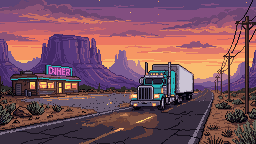
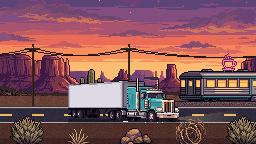
The title as a side-view parallax (Jeff, 2026-11-01: "the road looks like the truck is driving but nothing in the background is moving")
tools/title-parallax.py composes the title loop from painted layers (assets/title/parallax: the sky and mesas, the
diner, a sheet of desert plants, the truck and its 16-frame roll). The truck holds its place while the world streams
past at speeds set by distance: the sky and the mesas stay put, the shoulder (poles, wires, cacti, the diner once a
loop) and the road move 4 px a frame, the scrub in front 6. 96 frames of 256 × 144 at 24 fps, every layer repeating
a whole number of times, so the last frame leads into the first and TITLE_LOOP's crossfade is 0 (App.tsx reads it
from there now). title.ts inlines one poster frame, the loop's first, instead of the old loop's 16: the page is
557 KB lighter, and nothing moves before the loop decodes in a way the loop doesn't. title.png stays as the style
anchor of the painterly assets; it no longer ships. asset-pass.sh titleparallax: the layers' prompts and seeds.

diff --git a/apps/web/src/title.ts b/apps/web/src/title.ts
@@ -1,31 +1,17 @@
-import f01 from "../assets/title/loop/frame-01.png";
-import f02 from "../assets/title/loop/frame-02.png";
-import f03 from "../assets/title/loop/frame-03.png";
-import f04 from "../assets/title/loop/frame-04.png";
-import f05 from "../assets/title/loop/frame-05.png";
-import f06 from "../assets/title/loop/frame-06.png";
-import f07 from "../assets/title/loop/frame-07.png";
-import f08 from "../assets/title/loop/frame-08.png";
-import f09 from "../assets/title/loop/frame-09.png";
-import f10 from "../assets/title/loop/frame-10.png";
-import f11 from "../assets/title/loop/frame-11.png";
-import f12 from "../assets/title/loop/frame-12.png";
-import f13 from "../assets/title/loop/frame-13.png";
-import f14 from "../assets/title/loop/frame-14.png";
-import f15 from "../assets/title/loop/frame-15.png";
-import f16 from "../assets/title/loop/frame-16.png";
+import poster from "../assets/title/loop/frame-01.png";
 
 /**
- * The animated title scene: the Pro painterly image (apps/web/assets/title/title.png) and its
- * 16-frame PixMiniMax loop, 256×144, shown at a whole-number scale with the logo over the sky.
- * Frame 0 of the loop is the still itself, so the loop plays frames 1–16 and repeats.
+ * The title scene's poster, inside the page: the first frame of the parallax loop (tools/title-parallax.py),
+ * 256×144, shown at a whole-number scale with the logo over the sky until the loop next to the page
+ * (mapart.ts titleLoop) has decoded, and for good when motion is reduced. One frame, so it never moves
+ * in a way the loop doesn't.
  */
 export const TITLE_FRAME_W = 256;
 export const TITLE_FRAME_H = 144;
-/** Milliseconds per frame: 10 fps reads as a slow roll, not a flicker. */
+/** Milliseconds per inline frame. */
 export const TITLE_FRAME_MS = 100;
 
-const SRC = [f01, f02, f03, f04, f05, f06, f07, f08, f09, f10, f11, f12, f13, f14, f15, f16];
+const SRC = [poster];
 let imgs: HTMLImageElement[] | null = null;
 let decoded = 0;
 

diff --git a/apps/web/src/ui/App.tsx b/apps/web/src/ui/App.tsx
@@ -65,15 +65,14 @@ function TitleScene(): JSX.Element {
           ctx.imageSmoothingEnabled = false;
           const sheet = reduced ? null : titleLoop();
           if (sheet) {
-            // The long loop: 40 frames at 12 fps from the sheet next to the page, the last six
-            // frames crossfading into the first six so the wrap never jumps.
-            const { frames, cols, fps } = TITLE_LOOP;
+            // The long loop from the sheet next to the page (TITLE_LOOP). A loop that doesn't close
+            // crossfades its last `fade` frames into its first; the parallax loop closes, so its fade is 0.
+            const { frames, cols, fps, fade } = TITLE_LOOP;
             const i = Math.floor((t * fps) / 1000) % frames;
             const cell = (n: number) => [(n % cols) * TITLE_FRAME_W, Math.floor(n / cols) * TITLE_FRAME_H] as const;
             const [sx, sy] = cell(i);
             ctx.drawImage(sheet, sx, sy, TITLE_FRAME_W, TITLE_FRAME_H, 0, 0, cv.width, cv.height);
-            const fade = 6;
-            if (i >= frames - fade) {
+            if (fade > 0 && i >= frames - fade) {
               const [fx, fy] = cell(i - (frames - fade));
               ctx.globalAlpha = (i - (frames - fade) + 1) / (fade + 1);
               ctx.drawImage(sheet, fx, fy, TITLE_FRAME_W, TITLE_FRAME_H, 0, 0, cv.width, cv.height);

diff --git a/apps/web/src/mapart.ts b/apps/web/src/mapart.ts
@@ -200,7 +200,7 @@ export function townKindAt(lon: number, lat: number, nearWater: boolean): TownKi
 }
 
 let titlePic: Pic | null = null;
-/** The title's long loop (assets/title/title.loop.png, 40 frames of 256 × 144 in 8 columns) once decoded. */
+/** The title's long loop (assets/title/title.loop.png, 96 frames of 256 × 144 in 12 columns) once decoded. */
 export function titleLoop(): HTMLImageElement | null {
   if (!titlePic) {
     if (!hasAsset("title/title.loop.png")) return null;
@@ -209,7 +209,8 @@ export function titleLoop(): HTMLImageElement | null {
   }
   return titlePic.ready ? titlePic.img : null;
 }
-export const TITLE_LOOP = { frames: 40, cols: 8, fps: 12 };
+/** A side-view parallax (tools/title-parallax.py) whose last frame leads into its first, so nothing crossfades. */
+export const TITLE_LOOP = { frames: 96, cols: 12, fps: 24, fade: 0 };
 
 let loadingPic: Pic | null = null;
 /** The loading screen's rig strip (16 frames of 256 × 72) once it has decoded. */

diff --git a/apps/web/tools/title-parallax.py b/apps/web/tools/title-parallax.py
@@ -1,0 +1,205 @@
+#!/usr/bin/env python3
+"""The title loop as a side-view parallax (Jeff, 2026-11-01: in the old loop the road moved and nothing beside it did).
+
+The truck holds its place with its wheels turning while the world streams past at speeds set by distance: the sky
+and the mesas stay put; the shoulder (its poles, wires, cacti and the diner) and the road move 4 px a frame; the
+scrub in front of the road 6. Every moving layer repeats a whole number of times in the 96 frames, so the frame
+after the last is the first and the loop needs no crossfade (mapart.ts TITLE_LOOP.fade 0).
+
+Layers (apps/web/assets/title/parallax, painted by asset-pass.sh titleparallax): back.png, the sky, the mesas and
+the far desert; diner.png; scrub.png, a sheet of plants cut apart here; rig.loop.png, the truck's 16-frame roll.
+
+  title-parallax.py [--frames <dir>]
+      → assets/title/title.loop.png (+ .json), 96 frames of 256 × 144 in 12 columns, played at 24 fps, and the
+        poster assets/title/loop/frame-01.png (the first frame); --frames also writes frame-00 … for previews.
+"""
+import importlib.util
+import json
+import os
+import sys
+
+import numpy as np
+
+HERE = os.path.dirname(os.path.abspath(__file__))
+spec = importlib.util.spec_from_file_location("pm", os.path.join(HERE, "paint-map.py"))
+pm = importlib.util.module_from_spec(spec)
+spec.loader.exec_module(pm)  # type: ignore[union-attr]
+
+ASSETS = os.path.join(HERE, "..", "assets", "title")
+LAYERS = os.path.join(ASSETS, "parallax")
+W, H, N, COLS = 256, 144, 96, 12
+ROAD_V, FORE_V = 4, 6  # px a frame: the shoulder and the road, and the scrub in front of the road
+NEAR_W = ROAD_V * N  # 384: the shoulder and the road come round once a loop
+FORE_W = FORE_V * N // 2  # 288: the foreground comes round twice
+
+# Rows: the shoulder behind the road, the road's far edge line, centre dashes and near edge line, the foreground.
+SHOULDER, ROAD, CENTRE, ROAD_END = 96, 106, 114, 124
+POLE_TOP, ARM = 44, 48
+TRUCK_X, TRUCK_FOOT = 60, 121  # the rig sprite's left edge and the row its tyres stand on
+
+DIRT, PEBBLE = (104, 64, 54), (72, 46, 40)
+ASPHALT, SHEEN = (46, 42, 60), (64, 54, 74)
+LINE, DASH = (196, 176, 150), (230, 186, 92)
+SAND, SAND_DEEP = (80, 47, 41), (62, 37, 35)
+POLE, POLE_DARK, INSULATOR, WIRE = (60, 40, 34), (40, 27, 26), (220, 210, 190), (34, 24, 28)
+
+
+def load(name: str) -> np.ndarray:
+    return pm.read_png(os.path.join(LAYERS, name))
+
+
+def crop(img: np.ndarray) -> np.ndarray:
+    ys, xs = np.nonzero(img[..., 3] > 0)
+    return img[ys.min() : ys.max() + 1, xs.min() : xs.max() + 1]
+
+
+def sprites(sheet: np.ndarray) -> list:
+    """The sheet's plants, left to right, split at the empty columns between them."""
+    filled = (sheet[..., 3] > 0).any(axis=0)
+    out, x = [], 0
+    while x < len(filled):
+        if filled[x]:
+            start = x
+            while x < len(filled) and filled[x]:
+                x += 1
+            out.append(crop(sheet[:, start:x]))
+        x += 1
+    return out
+
+
+def over(dst: np.ndarray, src: np.ndarray, x: int, y: int, alpha: float = 1.0) -> None:
+    """Composites src onto dst with its top-left at (x, y), clipped to dst."""
+    h, w = src.shape[:2]
+    x0, y0, x1, y1 = max(0, x), max(0, y), min(dst.shape[1], x + w), min(dst.shape[0], y + h)
+    if x0 >= x1 or y0 >= y1:
+        return
+    s = src[y0 - y : y1 - y, x0 - x : x1 - x].astype(np.float32)
+    d = dst[y0:y1, x0:x1].astype(np.float32)
+    a = s[..., 3:4] / 255 * alpha
+    d[..., :3] = s[..., :3] * a + d[..., :3] * (1 - a)
+    d[..., 3:4] = np.maximum(d[..., 3:4], a * 255)
+    dst[y0:y1, x0:x1] = d.round().astype(np.uint8)
+
+
+def wrapped(dst: np.ndarray, src: np.ndarray, x: int, y: int, period: int) -> None:
+    """Draws src at x and at every whole period either side, so a strip's edges join."""
+    for k in (-1, 0, 1):
+        over(dst, src, x + k * period, y)
+
+
+def textured(w: int, h: int, base, spread: int, seed: int) -> np.ndarray:
+    """A band of base colour with fixed noise, w wide so that it tiles at w."""
+    rng = np.random.default_rng(seed)
+    band = np.zeros((h, w, 4), np.float32)
+    band[..., :3] = base
+    band[..., :3] += rng.integers(-spread, spread + 1, (h, w, 1))
+    band[..., 3] = 255
+    return band.clip(0, 255).astype(np.uint8)
+
+
+def paint(strip: np.ndarray, x: int, y: int, color, period: int) -> None:
+    strip[y, x % period, :3] = color
+    strip[y, x % period, 3] = 255
+
+
+def near_layer(diner: np.ndarray, cacti: list) -> np.ndarray:
+    """The shoulder and the road: poles and wires, cacti, the diner once a loop, asphalt with its lines."""
+    s = np.zeros((H, NEAR_W, 4), np.uint8)
+    s[SHOULDER:ROAD] = textured(NEAR_W, ROAD - SHOULDER, DIRT, 9, 1)
+    rng = np.random.default_rng(2)
+    for _ in range(40):
+        paint(s, int(rng.integers(0, NEAR_W)), int(rng.integers(SHOULDER + 1, ROAD)), PEBBLE, NEAR_W)
+    road = textured(NEAR_W, ROAD_END - ROAD, ASPHALT, 5, 3)
+    road[0:3, :, :3] = SHEEN
+    road[1, :, :3] = LINE
+    road[ROAD_END - ROAD - 2, :, :3] = LINE
+    for x in range(0, NEAR_W, 32):
+        road[CENTRE - ROAD : CENTRE - ROAD + 2, x : x + 12, :3] = DASH
+    s[ROAD:ROAD_END] = road
+    poles = [32, 128, 320]  # the diner stands where a fourth would
+    for i, px in enumerate(poles):
+        nxt = poles[(i + 1) % len(poles)] + (NEAR_W if i + 1 == len(poles) else 0)
+        span = nxt - px
+        sag = 4 + span // 48
+        for end in (-6, 6):
+            for k in range(span + 1):
+                t = k / span
+                paint(s, px + end + k, ARM + 1 + int(round(4 * sag * t * (1 - t))), WIRE, NEAR_W)
+    for px in poles:
+        for y in range(POLE_TOP, ROAD):
+            paint(s, px, y, POLE, NEAR_W)
+            paint(s, px + 1, y, POLE_DARK, NEAR_W)
+        for dx in range(-7, 8):
+            paint(s, px + dx, ARM, POLE, NEAR_W)
+            paint(s, px + dx, ARM + 1, POLE_DARK, NEAR_W)
+        for dx in (-6, 0, 6):
+            paint(s, px + dx, ARM - 1, INSULATOR, NEAR_W)
+    wrapped(s, diner, 168, ROAD - 1 - diner.shape[0], NEAR_W)
+    for cx, cactus in zip((80, 290), cacti):
+        wrapped(s, cactus, cx, ROAD - 2 - cactus.shape[0], NEAR_W)
+    return s
+
+
+def fore_layer(plants: list) -> np.ndarray:
+    """The ground in front of the road with low scrub, cropped by the bottom of the frame."""
+    f = np.zeros((H, FORE_W, 4), np.uint8)
+    f[ROAD_END:H] = textured(FORE_W, H - ROAD_END, SAND, 7, 4)
+    f[H - 6 : H] = textured(FORE_W, 6, SAND_DEEP, 6, 5)
+    for x, i in ((10, 0), (66, 1), (118, 2), (176, 3), (226, 0), (262, 1)):
+        p = plants[i]
+        wrapped(f, p, x, H + 5 - p.shape[0], FORE_W)
+    return f
+
+
+def glow(frame: np.ndarray) -> None:
+    """The headlights' wash on the road ahead of the truck and the truck's shadow under it."""
+    shade = np.zeros((4, 112, 4), np.uint8)
+    shade[..., 3] = 90
+    over(frame, shade, TRUCK_X + 8, TRUCK_FOOT - 2)
+    beam = np.zeros((ROAD_END - ROAD - 3, 64, 4), np.uint8)
+    for x in range(64):
+        half = 1 + x // 8
+        mid = (TRUCK_FOOT - 4) - ROAD
+        beam[max(0, mid - half) : mid + half + 1, x, :3] = (255, 226, 150)
+        beam[max(0, mid - half) : mid + half + 1, x, 3] = int(70 * (1 - x / 64))
+    over(frame, beam, TRUCK_X + 118, ROAD + 1)
+
+
+def main() -> None:
+    back = load("back.png")
+    diner = crop(load("diner.png"))
+    plants = sprites(load("scrub.png"))  # sagebrush, grass, saguaro, prickly pear, rocks, tumbleweed
+    low = [plants[0], plants[1], plants[4], plants[5]]
+    cacti = [plants[2], plants[3]]
+    sheet = load("rig.loop.png")
+    meta = json.load(open(os.path.join(LAYERS, "rig.loop.json")))
+    rw, rh, rn = meta["w"], meta["h"], meta["frames"]
+    rig = [sheet[(i // meta["cols"]) * rh : (i // meta["cols"] + 1) * rh, (i % meta["cols"]) * rw : (i % meta["cols"] + 1) * rw] for i in range(rn)]
+    near, fore = near_layer(diner, cacti), fore_layer(low)
+    frames = []
+    for t in range(N):
+        f = back.copy()
+        wrapped(f, near, -((t * ROAD_V) % NEAR_W), 0, NEAR_W)
+        glow(f)
+        over(f, rig[t % rn], TRUCK_X, TRUCK_FOOT - rh + 2)
+        wrapped(f, fore, -((t * FORE_V) % FORE_W), 0, FORE_W)
+        frames.append(f)
+    rows = -(-N // COLS)
+    out = np.zeros((rows * H, COLS * W, 4), np.uint8)
+    for i, f in enumerate(frames):
+        r, c = divmod(i, COLS)
+        out[r * H : (r + 1) * H, c * W : (c + 1) * W] = f
+    pm.write_png(os.path.join(ASSETS, "title.loop.png"), out)
+    json.dump({"frames": N, "cols": COLS, "w": W, "h": H}, open(os.path.join(ASSETS, "title.loop.json"), "w"))
+    pm.write_png(os.path.join(ASSETS, "loop", "frame-01.png"), frames[0])
+    if "--frames" in sys.argv:
+        d = sys.argv[sys.argv.index("--frames") + 1]
+        os.makedirs(d, exist_ok=True)
+        pm.write_png(os.path.join(d, "frame-00.png"), frames[0])
+        for i, f in enumerate(frames):
+            pm.write_png(os.path.join(d, f"frame-{i + 1:02d}.png"), f)
+    print(f"title.loop.png: {N} frames of {W}×{H} in {COLS} columns; poster loop/frame-01.png")
+
+
+if __name__ == "__main__":
+    main()
